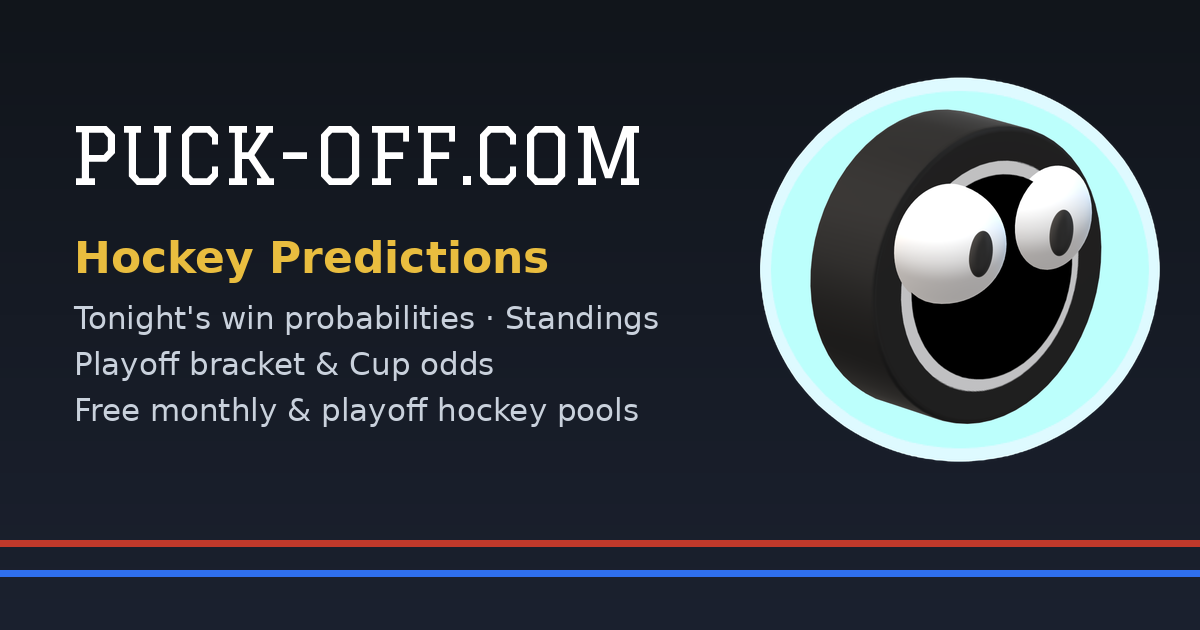
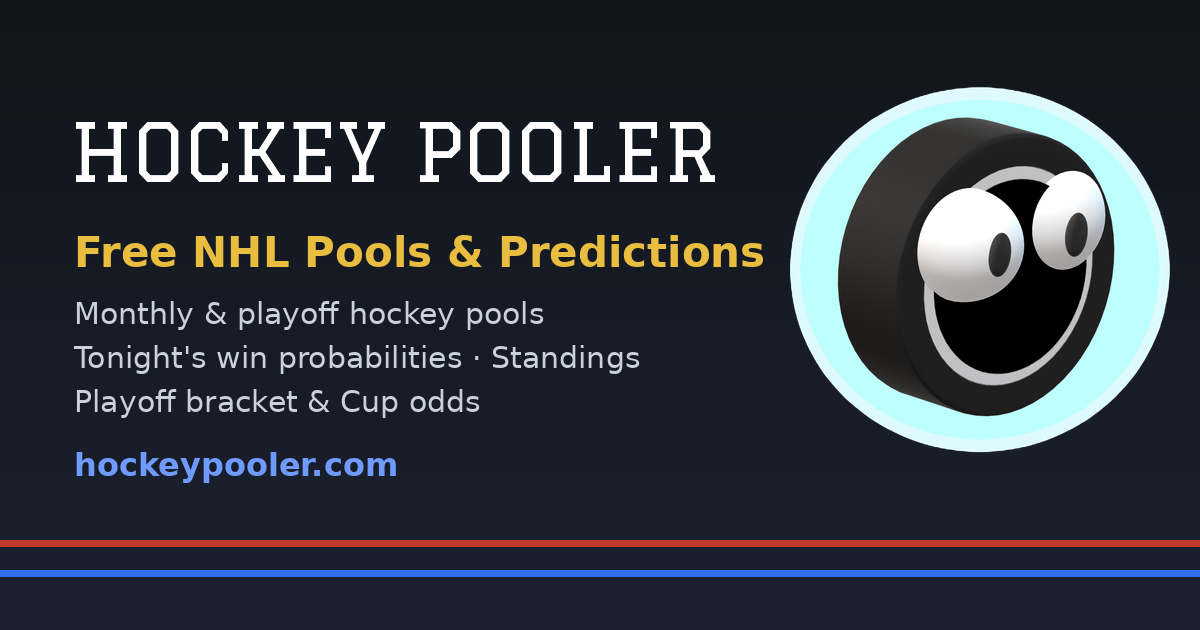
Rename to Hockey Pooler: hockeypooler.com is the main address; puck-off.com forwards there
Claude-Session: https://claude.ai/code/session_01Wa3dTt11eE3zkHfevAcZhR

diff --git a/nhl-playoff-pool.html b/nhl-playoff-pool.html
@@ -1,28 +1,28 @@
 <!DOCTYPE html>
 <html lang="en">
 <head>
-<script>/* The old GitHub Pages address forwards to the main site (same page). */if(/github\.io$/i.test(location.hostname)){location.replace("https://puck-off.com"+location.pathname.replace(/^\/nhl-predictions-data/,"").replace(/\.html$/,"")+location.search+location.hash)}</script>
+<script>/* The old GitHub Pages address forwards to the main site (same page). */if(/github\.io$/i.test(location.hostname)){location.replace("https://hockeypooler.com"+location.pathname.replace(/^\/nhl-predictions-data/,"").replace(/\.html$/,"")+location.search+location.hash)}</script>
 <meta charset="utf-8">
 <meta name="viewport" content="width=device-width, initial-scale=1">
-<title>Free NHL Playoff Pool 2027 – Start a Hockey Pool in Seconds | Puck-Off</title>
+<title>Free NHL Playoff Pool 2027 – Start a Hockey Pool in Seconds | Hockey Pooler</title>
 <meta name="description" content="Run a free NHL playoff pool with friends, family or the office. No sign-up: start a pool, share the 6-digit code, pick 12 players and 5 teams, and the leaderboard scores itself.">
-<link rel="canonical" href="https://puck-off.com/nhl-playoff-pool">
+<link rel="canonical" href="https://hockeypooler.com/nhl-playoff-pool">
 <link rel="icon" href="/favicon.svg" type="image/svg+xml">
 <link rel="apple-touch-icon" href="/apple-touch-icon.png">
 <meta name="theme-color" content="#f7f8fa">
 <meta property="og:type" content="website">
-<meta property="og:site_name" content="Puck-Off">
+<meta property="og:site_name" content="Hockey Pooler">
 <meta property="og:title" content="Free NHL Playoff Pool – Start a Hockey Pool in Seconds">
 <meta property="og:description" content="No sign-up. Start a pool, share the code, pick 12 players and 5 teams, and the leaderboard scores itself.">
-<meta property="og:url" content="https://puck-off.com/nhl-playoff-pool">
-<meta property="og:image" content="https://puck-off.com/og-image.png">
+<meta property="og:url" content="https://hockeypooler.com/nhl-playoff-pool">
+<meta property="og:image" content="https://hockeypooler.com/og-image.png">
 <meta property="og:image:width" content="1200">
 <meta property="og:image:height" content="630">
 <meta name="twitter:card" content="summary_large_image">
-<meta name="twitter:image" content="https://puck-off.com/og-image.png">
-<script type="application/ld+json">{"@context":"https://schema.org","@type":"HowTo","name":"How to run a free NHL playoff pool","step":[{"@type":"HowToStep","name":"Start a pool","text":"Open Pools on Puck-Off, choose Start a pool and pick the Playoffs pool. You get a 6-digit pool code."},{"@type":"HowToStep","name":"Share the code","text":"Send the 6-digit code to friends, family or co-workers."},{"@type":"HowToStep","name":"Fill in the entry form","text":"Each person picks 2 centres, 2 left wings, 2 right wings, 4 defencemen, 2 goalies and 5 teams before the first playoff game starts."},{"@type":"HowToStep","name":"Follow the leaderboard","text":"Scores update automatically after every playoff game. Highest score wins."}]}</script>
+<meta name="twitter:image" content="https://hockeypooler.com/og-image.png">
+<script type="application/ld+json">{"@context":"https://schema.org","@type":"HowTo","name":"How to run a free NHL playoff pool","step":[{"@type":"HowToStep","name":"Start a pool","text":"Open Pools on Hockey Pooler, choose Start a pool and pick the Playoffs pool. You get a 6-digit pool code."},{"@type":"HowToStep","name":"Share the code","text":"Send the 6-digit code to friends, family or co-workers."},{"@type":"HowToStep","name":"Fill in the entry form","text":"Each person picks 2 centres, 2 left wings, 2 right wings, 4 defencemen, 2 goalies and 5 teams before the first playoff game starts."},{"@type":"HowToStep","name":"Follow the leaderboard","text":"Scores update automatically after every playoff game. Highest score wins."}]}</script>
 <script type="application/ld+json">{"@context":"https://schema.org","@type":"FAQPage","mainEntity":[
-{"@type":"Question","name":"Is the NHL playoff pool really free?","acceptedAnswer":{"@type":"Answer","text":"Yes. There is no cost, no sign-up and no email address needed. Puck-Off does not handle money; any prizes are up to your group."}},
+{"@type":"Question","name":"Is the NHL playoff pool really free?","acceptedAnswer":{"@type":"Answer","text":"Yes. There is no cost, no sign-up and no email address needed. Hockey Pooler does not handle money; any prizes are up to your group."}},
 {"@type":"Question","name":"How does scoring work?","acceptedAnswer":{"@type":"Answer","text":"Score = total playoff points of your 10 forwards and defencemen + total saves of your 2 goalies divided by 20 + total playoff wins of your 5 teams. Highest score wins."}},
 {"@type":"Question","name":"When do entries close?","acceptedAnswer":{"@type":"Answer","text":"Entries open once all 16 playoff teams are known and close automatically when the first playoff game starts. Picks stay hidden until entries close, so nobody can copy them."}},
 {"@type":"Question","name":"Can I change my picks after entering?","acceptedAnswer":{"@type":"Answer","text":"No. Once an entry is submitted it is final, just like a paper pool."}},
@@ -44,9 +44,9 @@ footer{border-top:1px solid var(--line);padding:16px 20px;color:var(--muted);fon
 </style>
 </head>
 <body>
-<header class="top"><a class="brand" href="/">🏒 Puck-Off</a><nav><a href="/nhl-predictions">Predictions today</a><a href="/">Open the app</a></nav></header>
+<header class="top"><a class="brand" href="/">🏒 Hockey Pooler</a><nav><a href="/nhl-predictions">Predictions today</a><a href="/">Open the app</a></nav></header>
 <main>
-<p class="crumb"><a href="/">Puck-Off</a> › Free NHL Playoff Pool</p>
+<p class="crumb"><a href="/">Hockey Pooler</a> › Free NHL Playoff Pool</p>
 <h1>Free NHL Playoff Pool</h1>
 <p class="lede">Run a Stanley Cup playoff hockey pool for your friends, family or office in under a minute. No sign-up, no spreadsheets, no chasing people for scores — the leaderboard updates itself after every game.</p>
 <p><a class="btn" href="/pools#/start">Start a pool →</a><a class="btn alt" href="/pools#/enter">Join with a code</a><a class="btn alt" href="/pools#/rank">Check the standings</a></p>
@@ -88,7 +88,7 @@ footer{border-top:1px solid var(--line);padding:16px 20px;color:var(--muted);fon
 </ul>
 
 <h2>Frequently Asked Questions</h2>
-<details><summary>Is the NHL playoff pool really free?</summary><p>Yes. There is no cost, no sign-up and no email address needed. Puck-Off does not handle money; any prizes are up to your group.</p></details>
+<details><summary>Is the NHL playoff pool really free?</summary><p>Yes. There is no cost, no sign-up and no email address needed. Hockey Pooler does not handle money; any prizes are up to your group.</p></details>
 <details><summary>How does scoring work?</summary><p>Score = total playoff points of your 10 forwards and defencemen + total saves of your 2 goalies ÷ 20 + total playoff wins of your 5 teams. Highest score wins.</p></details>
 <details><summary>When do entries close?</summary><p>Entries open once all 16 playoff teams are known and close automatically when the first playoff game starts. Picks stay hidden until entries close.</p></details>
 <details><summary>Can I change my picks after entering?</summary><p>No. Once an entry is submitted it is final, just like a paper pool.</p></details>
@@ -96,6 +96,6 @@ footer{border-top:1px solid var(--line);padding:16px 20px;color:var(--muted);fon
 
 <p style="margin-top:28px"><a class="btn" href="/pools#/start">Start your free pool →</a><a class="btn alt" href="/nhl-predictions">NHL predictions today</a></p>
 </main>
-<footer><span>Puck-Off is an independent fan site, not affiliated with the NHL or any team.</span> <a href="/legal">Legal Disclaimer</a></footer>
+<footer><span>Hockey Pooler is an independent fan site, not affiliated with the NHL or any team.</span> <a href="/legal">Legal Disclaimer</a></footer>
 </body>
 </html>

diff --git a/index.html b/index.html
@@ -1,26 +1,26 @@
 <!DOCTYPE html>
 <html lang="en">
 <head>
-<script>/* The old GitHub Pages address forwards to the main site on puck-off.com (same page). */if(/github\.io$/i.test(location.hostname)){location.replace("https://puck-off.com"+location.pathname.replace(/^\/nhl-predictions-data/,"").replace(/(index)?\.html$/,"")+location.search+location.hash)}</script>
+<script>/* The old GitHub Pages address forwards to the main site on hockeypooler.com (same page). */if(/github\.io$/i.test(location.hostname)){location.replace("https://hockeypooler.com"+location.pathname.replace(/^\/nhl-predictions-data/,"").replace(/(index)?\.html$/,"")+location.search+location.hash)}</script>
 <meta charset="utf-8">
 <meta name="viewport" content="width=device-width, initial-scale=1">
-<title>NHL Predictions 2026-27: Win Probabilities, Standings &amp; Playoff Odds | Puck-Off</title>
+<title>NHL Predictions 2026-27: Win Probabilities, Standings &amp; Playoff Odds | Hockey Pooler</title>
 <meta name="description" content="Free NHL predictions for every game: win probabilities, team momentum charts, standings, points leaders, playoff bracket and Stanley Cup odds. Updated hourly.">
-<link rel="canonical" href="https://puck-off.com/">
+<link rel="canonical" href="https://hockeypooler.com/">
 <link rel="icon" href="/favicon.svg" type="image/svg+xml">
 <link rel="apple-touch-icon" href="/apple-touch-icon.png">
 <meta name="theme-color" content="#11151b">
 <meta property="og:type" content="website">
-<meta property="og:site_name" content="Puck-Off">
-<meta property="og:title" content="Puck-Off · NHL Predictions &amp; Win Probabilities">
+<meta property="og:site_name" content="Hockey Pooler">
+<meta property="og:title" content="Hockey Pooler · NHL Predictions &amp; Win Probabilities">
 <meta property="og:description" content="Win probabilities for every NHL game, momentum charts, standings, playoff bracket and Stanley Cup odds — plus free hockey pools.">
-<meta property="og:url" content="https://puck-off.com/">
-<meta property="og:image" content="https://puck-off.com/og-image.png">
+<meta property="og:url" content="https://hockeypooler.com/">
+<meta property="og:image" content="https://hockeypooler.com/og-image.png">
 <meta property="og:image:width" content="1200">
 <meta property="og:image:height" content="630">
 <meta name="twitter:card" content="summary_large_image">
-<meta name="twitter:image" content="https://puck-off.com/og-image.png">
-<script type="application/ld+json">{"@context":"https://schema.org","@graph":[{"@type":"WebSite","name":"Puck-Off","alternateName":"Puck-Off Hockey Predictions","url":"https://puck-off.com/"},{"@type":"WebApplication","name":"Puck-Off NHL Predictions","url":"https://puck-off.com/","applicationCategory":"SportsApplication","operatingSystem":"Any","isAccessibleForFree":true,"offers":{"@type":"Offer","price":"0","priceCurrency":"USD"},"description":"Win probabilities for every NHL game, team momentum charts, standings, points leaders, playoff bracket, Stanley Cup odds and free hockey pools."}]}</script>
+<meta name="twitter:image" content="https://hockeypooler.com/og-image.png">
+<script type="application/ld+json">{"@context":"https://schema.org","@graph":[{"@type":"WebSite","name":"Hockey Pooler","alternateName":"HockeyPooler.com","url":"https://hockeypooler.com/"},{"@type":"WebApplication","name":"Hockey Pooler NHL Predictions","url":"https://hockeypooler.com/","applicationCategory":"SportsApplication","operatingSystem":"Any","isAccessibleForFree":true,"offers":{"@type":"Offer","price":"0","priceCurrency":"USD"},"description":"Win probabilities for every NHL game, team momentum charts, standings, points leaders, playoff bracket, Stanley Cup odds and free hockey pools."}]}</script>
 
 <style>
 :root{--card:#fff;--soft:#eef1f5;--sel:#e8effd;--line2:#eef0f3;--bg:#ffffff;--panel:#f7f8fa;--panel2:#ffffff;--line:#e3e6eb;--ink:#1c2230;--ink2:#5b6475;--muted:#8a93a3;--win:#26a65b;--loss:#e5484d;--tie:#2f6fed;--acc:#2f6fed}
@@ -322,7 +322,7 @@ footer a.legal{margin-left:auto;font-weight:700;white-space:nowrap}footer a.flin
 <body>
 <div id="app">
 <header>
-  <a class="brandlogo" href="/" title="Puck-Off.com home"><img src="/logo.png" alt="" width="30" height="30"><span>Puck-Off.com</span></a><span class="brandsep" aria-hidden="true">·</span><h1 id="ttl">NHL 2026-27 Regular Season · Win/Loss Lines</h1>
+  <a class="brandlogo" href="/" title="Hockey Pooler home"><img src="/logo.png" alt="" width="30" height="30"><span>Hockey Pooler</span></a><span class="brandsep" aria-hidden="true">·</span><h1 id="ttl">NHL 2026-27 Regular Season · Win/Loss Lines</h1>
   <span class="sub" id="upd">Loading…</span>
   <div class="legend">
     <span class="lg">Win ↗ +1</span><span class="lg">Loss ↘ −1</span><span class="lg">Tie → 0</span>
@@ -917,7 +917,7 @@ function poActive(){return !!(PO&&PO.season===SEASON.season)}
 function poGames(){return poActive()&&PO.games?PO.games:[]}
 function poUnlocked(){return poActive()&&!!PO.seeds}
 function updateTitle(){const ph=SEASON.phase==="playoffs"?"Playoffs":SEASON.phase==="offseason"?"Season":"Regular Season";
-  const h=document.getElementById("ttl");if(h)h.textContent=`NHL ${SEASON.season} ${ph} · Win/Loss Lines`;document.title=SEASON.phase==="playoffs"?`NHL Playoff Predictions ${SEASON.season}: Bracket & Stanley Cup Odds | Puck-Off`:`NHL Predictions ${SEASON.season}: Win Probabilities, Standings & Playoff Odds | Puck-Off`}
+  const h=document.getElementById("ttl");if(h)h.textContent=`NHL ${SEASON.season} ${ph} · Win/Loss Lines`;document.title=SEASON.phase==="playoffs"?`NHL Playoff Predictions ${SEASON.season}: Bracket & Stanley Cup Odds | Hockey Pooler`:`NHL Predictions ${SEASON.season}: Win Probabilities, Standings & Playoff Odds | Hockey Pooler`}
 function updatePoTabs(){document.querySelectorAll("nav.tabs a.po").forEach(a=>{a.classList.toggle("locked",!poUnlocked());a.title=poUnlocked()?"":"Unlocks once all 16 playoff teams are known"})}
 function refreshAll(){_eloCache=null;_brCache=null;updateTitle();updatePoTabs();if(!DATA)return;renderStats();if(curTab==="home")renderHome();renderLeaders();renderBracket();renderPoLeaders()}
 fetch("season.json",{cache:"no-store"}).then(r=>r.json()).then(d=>{SEASON=Object.assign({archives:[]},d);

diff --git a/legal.html b/legal.html
@@ -1,25 +1,25 @@
 <!DOCTYPE html>
 <html lang="en">
 <head>
-<script>/* The old GitHub Pages address forwards to the main site on puck-off.com (same page). */if(/github\.io$/i.test(location.hostname)){location.replace("https://puck-off.com"+location.pathname.replace(/^\/nhl-predictions-data/,"").replace(/(index)?\.html$/,"")+location.search+location.hash)}</script>
+<script>/* The old GitHub Pages address forwards to the main site on hockeypooler.com (same page). */if(/github\.io$/i.test(location.hostname)){location.replace("https://hockeypooler.com"+location.pathname.replace(/^\/nhl-predictions-data/,"").replace(/(index)?\.html$/,"")+location.search+location.hash)}</script>
 <meta charset="utf-8">
 <meta name="viewport" content="width=device-width, initial-scale=1">
-<title>Legal Disclaimer | Puck-Off</title>
-<meta name="description" content="Legal disclaimer and privacy information for Puck-Off, an independent hockey predictions fan site.">
-<link rel="canonical" href="https://puck-off.com/legal">
+<title>Legal Disclaimer | Hockey Pooler</title>
+<meta name="description" content="Legal disclaimer and privacy information for Hockey Pooler, an independent hockey predictions fan site.">
+<link rel="canonical" href="https://hockeypooler.com/legal">
 <link rel="icon" href="/favicon.svg" type="image/svg+xml">
 <link rel="apple-touch-icon" href="/apple-touch-icon.png">
 <meta name="theme-color" content="#11151b">
 <meta property="og:type" content="website">
-<meta property="og:site_name" content="Puck-Off">
-<meta property="og:title" content="Legal Disclaimer · Puck-Off">
-<meta property="og:description" content="Legal disclaimer and privacy information for Puck-Off.">
-<meta property="og:url" content="https://puck-off.com/legal">
-<meta property="og:image" content="https://puck-off.com/og-image.png">
+<meta property="og:site_name" content="Hockey Pooler">
+<meta property="og:title" content="Legal Disclaimer · Hockey Pooler">
+<meta property="og:description" content="Legal disclaimer and privacy information for Hockey Pooler.">
+<meta property="og:url" content="https://hockeypooler.com/legal">
+<meta property="og:image" content="https://hockeypooler.com/og-image.png">
 <meta property="og:image:width" content="1200">
 <meta property="og:image:height" content="630">
 <meta name="twitter:card" content="summary_large_image">
-<meta name="twitter:image" content="https://puck-off.com/og-image.png">
+<meta name="twitter:image" content="https://hockeypooler.com/og-image.png">
 
 <style>
 :root{--bg:#f7f8fa;--card:#fff;--line:#e3e6eb;--ink:#1c2230;--ink2:#4b5466;--muted:#8a93a3;--acc:#2f6fed}
@@ -50,7 +50,7 @@ footer{text-align:center;color:var(--muted);font-size:12.5px;margin-top:22px}
 </style>
 </head>
 <body>
-<div class="top"><a class="brandlogo" href="/" title="Puck-Off.com home"><img src="/logo.png" alt="" width="30" height="30"><span>Puck-Off.com</span></a><a class="back" href="index.html">← Back to the app</a><span class="sp"></span><button id="modebtn">☀ Light</button></div>
+<div class="top"><a class="brandlogo" href="/" title="Hockey Pooler home"><img src="/logo.png" alt="" width="30" height="30"><span>Hockey Pooler</span></a><a class="back" href="index.html">← Back to the app</a><span class="sp"></span><button id="modebtn">☀ Light</button></div>
 <main><div class="card">
 <h1>Legal Disclaimer</h1>
 <p class="eff">NHL Win/Loss Lines · Effective November 8, 2026</p>

diff --git a/pools.html b/pools.html
@@ -1,25 +1,25 @@
 <!DOCTYPE html>
 <html lang="en">
 <head>
-<script>/* The old GitHub Pages address forwards to the main site on puck-off.com (same page). */if(/github\.io$/i.test(location.hostname)){location.replace("https://puck-off.com"+location.pathname.replace(/^\/nhl-predictions-data/,"").replace(/(index)?\.html$/,"")+location.search+location.hash)}</script>
+<script>/* The old GitHub Pages address forwards to the main site on hockeypooler.com (same page). */if(/github\.io$/i.test(location.hostname)){location.replace("https://hockeypooler.com"+location.pathname.replace(/^\/nhl-predictions-data/,"").replace(/(index)?\.html$/,"")+location.search+location.hash)}</script>
 <meta charset="utf-8">
 <meta name="viewport" content="width=device-width, initial-scale=1">
-<title>Hockey Pools – Free NHL Monthly &amp; Playoff Pools | Puck-Off</title>
+<title>Hockey Pools – Free NHL Monthly &amp; Playoff Pools | Hockey Pooler</title>
 <meta name="description" content="Start, join or check a free NHL hockey pool: monthly pools during the regular season and a Stanley Cup playoff pool. Share a 6-digit code and the leaderboard updates itself.">
-<link rel="canonical" href="https://puck-off.com/pools">
+<link rel="canonical" href="https://hockeypooler.com/pools">
 <link rel="icon" href="/favicon.svg" type="image/svg+xml">
 <link rel="apple-touch-icon" href="/apple-touch-icon.png">
 <meta name="theme-color" content="#11151b">
 <meta property="og:type" content="website">
-<meta property="og:site_name" content="Puck-Off">
-<meta property="og:title" content="Free NHL Playoff Pool · Puck-Off">
+<meta property="og:site_name" content="Hockey Pooler">
+<meta property="og:title" content="Free NHL Playoff Pool · Hockey Pooler">
 <meta property="og:description" content="Start a hockey pool, share the code, and the leaderboard scores itself.">
-<meta property="og:url" content="https://puck-off.com/pools">
-<meta property="og:image" content="https://puck-off.com/og-image.png">
+<meta property="og:url" content="https://hockeypooler.com/pools">
+<meta property="og:image" content="https://hockeypooler.com/og-image.png">
 <meta property="og:image:width" content="1200">
 <meta property="og:image:height" content="630">
 <meta name="twitter:card" content="summary_large_image">
-<meta name="twitter:image" content="https://puck-off.com/og-image.png">
+<meta name="twitter:image" content="https://hockeypooler.com/og-image.png">
 
 <style>
 :root{--bg:#f7f8fa;--card:#fff;--soft:#f1f3f6;--line:#e3e6eb;--ink:#1c2230;--ink2:#4b5466;--muted:#8a93a3;--acc:#2f6fed;--ok:#2b8a3e;--bad:#d7191f}

diff --git a/worker/seo.js b/worker/seo.js
@@ -2,8 +2,8 @@
 //   /nhl-predictions  — today's and tomorrow's games with win probabilities, last night's results,
 //                       standings and points leaders, as plain HTML Google can read.
 //   /sitemap.xml      — list of the site's pages for search engines.
-export const SITE = 'https://puck-off.com';
-export const BRAND = 'Puck-Off';
+export const SITE = 'https://hockeypooler.com';
+export const BRAND = 'Hockey Pooler';
 
 const TEAMS = [
   ['Atlantic','BOS','Boston Bruins'],['Atlantic','BUF','Buffalo Sabres'],['Atlantic','DET','Detroit Red Wings'],['Atlantic','FLA','Florida Panthers'],['Atlantic','MTL','Montréal Canadiens'],['Atlantic','OTT','Ottawa Senators'],['Atlantic','TBL','Tampa Bay Lightning'],['Atlantic','TOR','Toronto Maple Leafs'],
@@ -155,7 +155,7 @@ export async function renderPredictions(env, origin) {
   ];
 
   const body = `
-<header class="top"><a class="brandlogo" href="/" title="Puck-Off.com home"><img src="/logo.png" alt="" width="30" height="30"><span>Puck-Off.com</span></a><nav><a href="/">Open the app</a><a href="/nhl-playoff-pool">Playoff pool</a></nav></header>
+<header class="top"><a class="brandlogo" href="/" title="Hockey Pooler home"><img src="/logo.png" alt="" width="30" height="30"><span>Hockey Pooler</span></a><nav><a href="/">Open the app</a><a href="/nhl-playoff-pool">Playoff pool</a></nav></header>
 <main>
 <p class="crumb"><a href="/">${BRAND}</a> › NHL Predictions Today</p>
 <h1>NHL Predictions Today</h1>

diff --git a/worker/snap.js b/worker/snap.js
@@ -2,7 +2,7 @@
 // Each snapshot stores every skater's season points and every goalie's season saves together with how many
 // games each team had played at that moment. A monthly pool then counts, for a team's players, the change
 // between "team had played k0 games" (before the month) and "team had played k0 + N games".
-const UA = { 'User-Agent': 'puck-off.com monthly pool snapshots', Accept: 'application/json' };
+const UA = { 'User-Agent': 'hockeypooler.com monthly pool snapshots', Accept: 'application/json' };
 export const normName = s => String(s || '').normalize('NFD').replace(/[̀-ͯ]/g, '').toLowerCase().replace(/[^a-z]/g, '');
 
 async function ensure(db) {
@@ -21,7 +21,7 @@ async function getJ(url) {
 export async function takeSnapshot(env) {
   const db = env.DB; if (!db) return { ok: false, error: 'no DB' };
   await ensure(db);
-  const seasonFile = await (await env.ASSETS.fetch(new Request('https://puck-off.com/season.json'))).json();
+  const seasonFile = await (await env.ASSETS.fetch(new Request('https://hockeypooler.com/season.json'))).json();
   const season = seasonFile.season; // "2026-27"
   if (seasonFile.phase && seasonFile.phase !== 'regular') return { ok: true, skipped: 'not regular season' };
   const sid = season.slice(0, 4) + '20' + season.slice(5, 7); // 20262027

diff --git a/worker/index.js b/worker/index.js
@@ -8,8 +8,9 @@ export default {
     const url = new URL(request.url);
     const isRead = request.method === 'GET' || request.method === 'HEAD';
     const isApi = url.pathname === '/api' || url.pathname.startsWith('/api/');
-    // One official address: www.puck-off.com and the old workers.dev address move to puck-off.com (same page)
-    if (url.hostname === 'www.puck-off.com' || (url.hostname.endsWith('.workers.dev') && isRead && !isApi)) {
+    // One official address: hockeypooler.com. www, the old puck-off.com domain and workers.dev move there (same page).
+    const OLD = ['www.hockeypooler.com', 'puck-off.com', 'www.puck-off.com'];
+    if ((OLD.includes(url.hostname) || url.hostname.endsWith('.workers.dev')) && isRead && !isApi) {
       return Response.redirect(SITE + url.pathname + url.search, 301);
     }
     if (isApi) return onRequest({ request, env, ctx });
